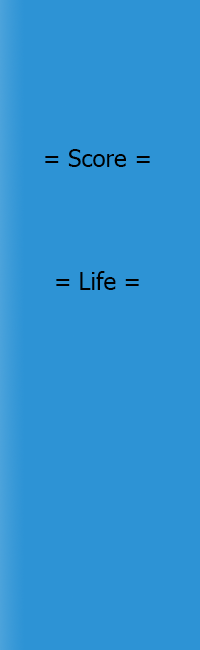
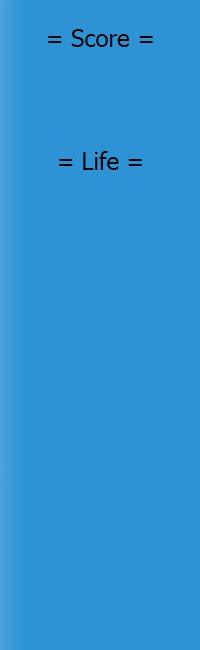
Higher score, More difficult

diff --git a/core/src/com/mygdx/game/World.java b/core/src/com/mygdx/game/World.java
@@ -26,26 +26,33 @@ public class World {
     private float ImmortalTimeCounter = 0;
 
     //Power(Life)
-    private double LifeSpawnTime = 15;
+    private double LifeSpawnTime = 20;
     private float LifeTimeCounter = 0;
     public boolean GetLife = false;
-    public int LifeValue = 1;
+    public int LifeValue = 3;
 
     //Yin-Yang List
     private ArrayList<YinYang> yinYangs = new ArrayList<YinYang>();
 
 	//Laser Cage Spawn Time Setting
-	private static final double LaserCageSpawnTime = 2;
+	private static double LaserCageSpawnTime = 2.5;
 	private float LaserTimeCounter = 0;
 
-	private int LaserCageScoreAppear = 50;
+	private int LaserCageScoreAppear = 75;
 	private float LaserCageScore = 0;
 
 	private int LaserCageCount = 0;
 
 	//Medium bullet Spawn Time Setting
-	private  static final double MediumBulletSpawnTime = 0.5;
+	private double MediumBulletSpawnTime = 1;
 	private float MediumBulletTimeCounter = 0;
+
+	private int MediumBulletScoreLevelSpeed = 200;
+    private float MediumBulletScoreSpeed = 0;
+
+    private int MediumBulletScoreLevelSpawn = 100;
+    private float MediumBulletScoreSpawn = 0;
+
 
 	private DisastarGame disastarGame;
 
@@ -143,6 +150,8 @@ public class World {
             if (ScoreTimeCounter >= ScoreRate) {
                 Score += 1;
                 LaserCageScore += 1;
+                MediumBulletScoreSpeed += 1;
+                MediumBulletScoreSpawn += 1;
 
                 ScoreTimeCounter -= ScoreRate;
             }
@@ -156,6 +165,15 @@ public class World {
             for (int i = 0; i < mediumBullets.size(); i++) {
                 mediumBullets.get(i).update(delta);
             }
+            if(MediumBulletScoreSpeed >= MediumBulletScoreLevelSpeed){
+                MediumBullet.BulletSpeed += 1;
+                MediumBulletScoreSpeed -= MediumBulletScoreLevelSpeed;
+            }
+            if(MediumBulletScoreSpawn >= MediumBulletScoreLevelSpawn){
+                MediumBulletSpawnTime = MediumBulletSpawnTime*0.8;
+                MediumBulletScoreSpawn -= MediumBulletScoreLevelSpawn;
+            }
+
 
             //Laser Cage Part
             if (LaserCageScore >= LaserCageScoreAppear) {
@@ -184,6 +202,9 @@ public class World {
                 if (LaserCageCount == 5) {
                     LaserCageCount = 0;
                     LaserCageScore = 0;
+                    LaserVertical.LaserSpeed += 1;
+                    LaserHorizontal.LaserSpeed += 1;
+                    LaserCageSpawnTime *= 0.75;
                 }
             }
             for (int i = 0; i < laserCageHorizontal.size(); i++) {
@@ -217,9 +238,16 @@ public class World {
             LaserTimeCounter = 0;
             LaserCageScore = 0;
             LaserCageCount = 0;
+            LaserHorizontal.LaserSpeed = 5;
+            LaserVertical.LaserSpeed = 5;
 
             //Medium bullet Spawn Time Setting
             MediumBulletTimeCounter = 0;
+            MediumBulletScoreSpeed = 0;
+            MediumBulletScoreSpawn = 0;
+
+            MediumBullet.BulletSpeed = 4;
+            MediumBulletSpawnTime = 1;
 
             //Medium Bullet List
             for (int i = 0; i < mediumBullets.size(); i++) {

diff --git a/core/src/com/mygdx/game/MediumBullet.java b/core/src/com/mygdx/game/MediumBullet.java
@@ -22,7 +22,7 @@ public class MediumBullet {
 
     private MainGirl mainGirl;
 
-    private int BulletSpeed = 5;
+    public static int BulletSpeed = 4;
     private int Type;
 
     private int RandomMove;
@@ -38,13 +38,13 @@ public class MediumBullet {
         random = new Random();
 
         if(Type == 0) {
-            position = new Vector2(0, random.nextInt(GameScreen.SCREEN_HEIGHT));    //Spawn on the left
+            position = new Vector2(-40, random.nextInt(GameScreen.SCREEN_HEIGHT));    //Spawn on the left
         } else if(Type == 1) {
-            position = new Vector2(GameScreen.SCREEN_WIDTH-200, random.nextInt(GameScreen.SCREEN_HEIGHT));     //Spawn on the right
+            position = new Vector2(GameScreen.SCREEN_WIDTH-160, random.nextInt(GameScreen.SCREEN_HEIGHT));     //Spawn on the right
         } else if(Type == 2) {
-            position = new Vector2(random.nextInt(GameScreen.SCREEN_WIDTH-200), GameScreen.SCREEN_HEIGHT);      //Spawn on the top
+            position = new Vector2(random.nextInt(GameScreen.SCREEN_WIDTH-200), GameScreen.SCREEN_HEIGHT+40);      //Spawn on the top
         } else if(Type == 3) {
-            position = new Vector2(random.nextInt(GameScreen.SCREEN_WIDTH-200), GameScreen.SCREEN_HEIGHT);      //Spawn on the bottom
+            position = new Vector2(random.nextInt(GameScreen.SCREEN_WIDTH-200), GameScreen.SCREEN_HEIGHT-40);      //Spawn on the bottom
         }
         RandomMove = random.nextInt(BulletSpeed) - random.nextInt(BulletSpeed);
 

diff --git a/core/src/com/mygdx/game/WorldRenderer.java b/core/src/com/mygdx/game/WorldRenderer.java
@@ -99,23 +99,23 @@ public class WorldRenderer {
             batch.draw(infoTabImg, 900, 0);
 
             //Show Score
-            font.draw(batch, "" + world.Score, 990, 460);
+            font.draw(batch, "" + world.Score, 1000, 580);
 
             //Show Life now
             if (world.LifeValue >= 1) {
-                batch.draw(yinyangImg, 920, 315);
+                batch.draw(yinyangImg, 920, 430);
             }
             if (world.LifeValue >= 2) {
-                batch.draw(yinyangImg, 950, 315);
+                batch.draw(yinyangImg, 950, 430);
             }
             if (world.LifeValue >= 3) {
-                batch.draw(yinyangImg, 980, 315);
+                batch.draw(yinyangImg, 980, 430);
             }
             if (world.LifeValue >= 4) {
-                batch.draw(yinyangImg, 1010, 315);
+                batch.draw(yinyangImg, 1010, 430);
             }
             if (world.LifeValue >= 5) {
-                batch.draw(yinyangImg, 1040, 315);
+                batch.draw(yinyangImg, 1040, 430);
             }
         }
 

diff --git a/core/src/com/mygdx/game/MainGirl.java b/core/src/com/mygdx/game/MainGirl.java
@@ -55,11 +55,11 @@ public class MainGirl {
     	
     	if(position.x < 0)
     		position.x += 1*Speed;
-    	else if(position.x > GameScreen.SCREEN_WIDTH-40)
+    	else if(position.x > ((GameScreen.SCREEN_WIDTH)-200)-20)
     		position.x -= 1*Speed;
     	if(position.y < 0)
     		position.y += 1*Speed;
-    	else if(position.y > GameScreen.SCREEN_HEIGHT-40)
+    	else if(position.y > GameScreen.SCREEN_HEIGHT-20)
     		position.y -= 1*Speed;
     	
     }

diff --git a/core/src/com/mygdx/game/YinYang.java b/core/src/com/mygdx/game/YinYang.java
@@ -27,7 +27,7 @@ public class YinYang {
 
         mainGirl = world.getMainGirl();
 
-        position = new Vector2(random.nextInt(GameScreen.SCREEN_WIDTH-200), random.nextInt(GameScreen.SCREEN_HEIGHT));
+        position = new Vector2(random.nextInt(GameScreen.SCREEN_WIDTH-300)+50, random.nextInt(GameScreen.SCREEN_HEIGHT-100)+50);
 
         this.world = world;
 

diff --git a/core/src/com/mygdx/game/LaserVertical.java b/core/src/com/mygdx/game/LaserVertical.java
@@ -18,7 +18,7 @@ public class LaserVertical {
 
     private MainGirl mainGirl;
 
-    private int LaserSpeed = 5;
+    public static int LaserSpeed = 5;
 
     private World world;
 

diff --git a/core/src/com/mygdx/game/LaserHorizontal.java b/core/src/com/mygdx/game/LaserHorizontal.java
@@ -18,7 +18,7 @@ public class LaserHorizontal {
 
 	private MainGirl mainGirl;
 
-	private int LaserSpeed = 5;
+	public static int LaserSpeed = 5;
 
 	private World world;
 
